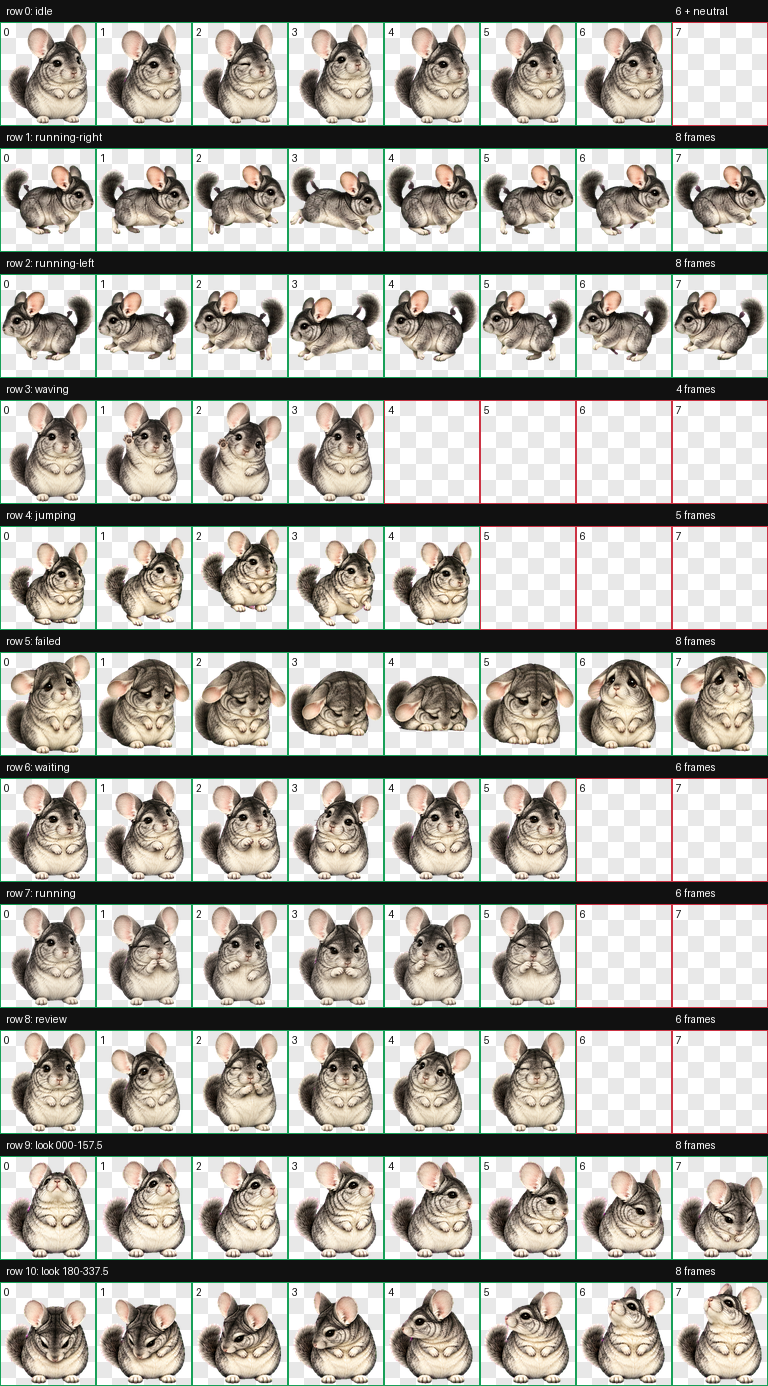
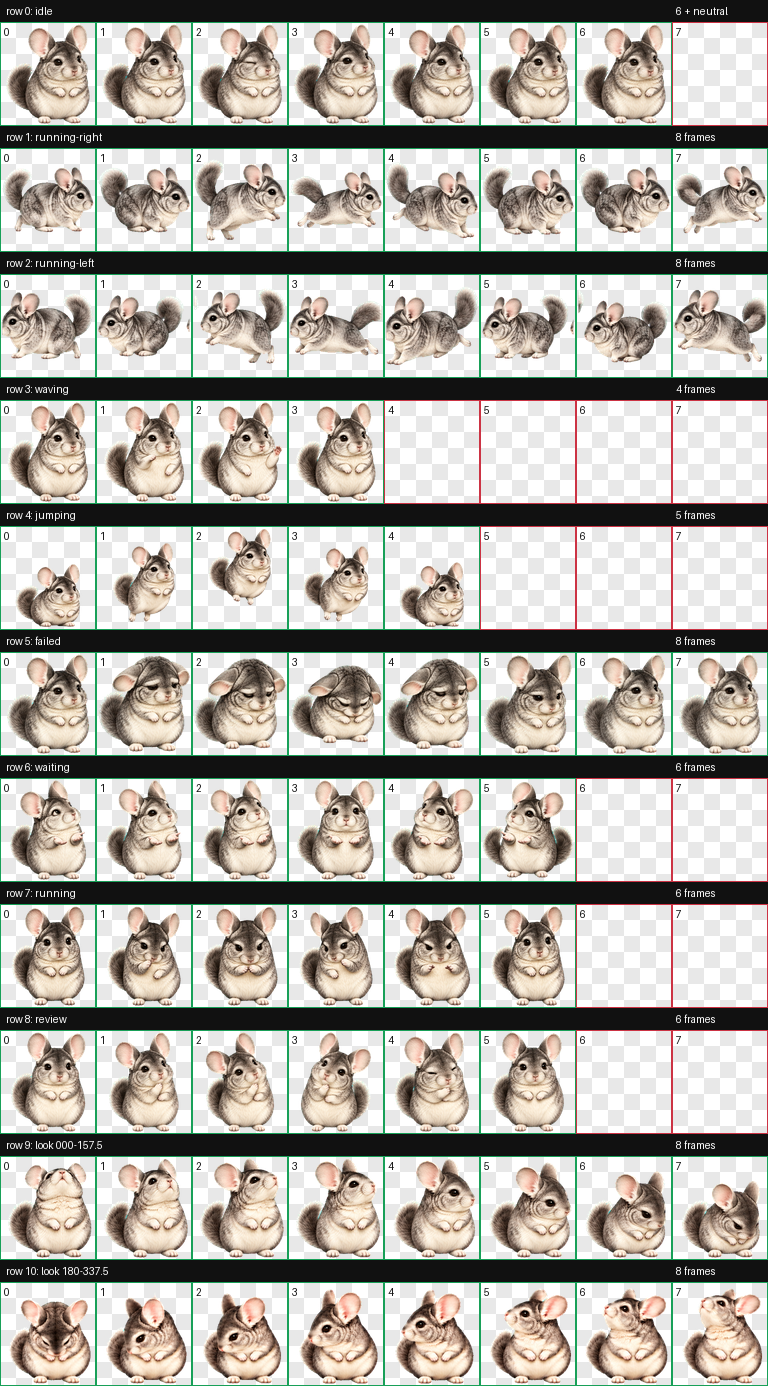
Refine chinchilla artwork and prepare 1.1.0 release

Changed region(s): [[0.0, 0.0, 1.0, 1.0]]

diff --git a/preview.html b/preview.html
@@ -1,0 +1,195 @@
+<!doctype html>
+<html lang="en">
+<head>
+  <meta charset="utf-8">
+  <meta name="viewport" content="width=device-width, initial-scale=1">
+  <title>Chinchilla · 龙猫 — animation preview</title>
+  <style>
+    :root { font-family: system-ui, -apple-system, "Segoe UI", sans-serif; color: #26382f; background: #f4f3ee; }
+    * { box-sizing: border-box; }
+    body { max-width: 880px; margin: 48px auto; padding: 0 24px 32px; }
+    header { display: flex; align-items: baseline; justify-content: space-between; gap: 16px; flex-wrap: wrap; }
+    h1 { margin: 0; font-size: clamp(26px, 5vw, 34px); letter-spacing: -.03em; }
+    h1 span { color: #647368; font-weight: 450; }
+    .version { border: 1px solid #d6ddd2; border-radius: 99px; padding: 5px 11px; font-size: 12px; white-space: nowrap; }
+    p { color: #617066; line-height: 1.65; }
+    a { color: #355c45; text-underline-offset: 3px; }
+    button, input { accent-color: #355c45; }
+    button { font: inherit; padding: 9px 13px; border: 1px solid #ccd5c8; border-radius: 9px; background: #fff; color: inherit; cursor: pointer; }
+    button:hover { border-color: #708c73; }
+    button[aria-pressed="true"] { color: #fff; background: #355c45; border-color: #355c45; }
+    button:focus-visible, input:focus-visible { outline: 3px solid #99b3a0; outline-offset: 3px; }
+    #states { display: flex; flex-wrap: wrap; gap: 7px; margin: 24px 0 18px; }
+    .viewer { padding: 20px; border: 1px solid #dce2d7; border-radius: 20px; background: #fff; }
+    .stage { height: 268px; display: grid; place-items: center; border-radius: 12px; background: #ecefe7; }
+    .dark .stage { background: #202923; }
+    .pet { width: 192px; height: 208px; background: url("./spritesheet.webp") no-repeat; background-size: 1536px 2288px; }
+    .controls { display: flex; align-items: center; gap: 9px; flex-wrap: wrap; margin-top: 17px; }
+    .scrubber { display: flex; align-items: center; gap: 9px; flex: 1 1 210px; }
+    .scrubber input { width: 100%; min-width: 100px; }
+    .background { display: flex; align-items: center; gap: 6px; white-space: nowrap; font-size: 14px; }
+    #status { display: block; min-height: 22px; margin-top: 14px; color: #526458; font-size: 14px; }
+    #lookpad { position: relative; height: 220px; margin-top: 20px; border: 1px dashed #9bac9b; border-radius: 16px; display: grid; place-items: center; padding: 20px; text-align: center; user-select: none; touch-action: none; color: #617066; }
+    #lookpad.active { background: #e6ede2; }
+    #lookpad::before { content: "+"; position: absolute; inset: 50% auto auto 50%; transform: translate(-50%, -50%); color: #6c8773; font-size: 24px; }
+    #lookpad span { align-self: end; font-size: 14px; }
+    .note { font-size: 13px; }
+    #error { color: #943b35; }
+    footer { margin-top: 22px; display: flex; gap: 18px; font-size: 14px; }
+    @media (max-width: 520px) { body { margin-top: 28px; padding-inline: 16px; } .viewer { padding: 14px; } #states button { flex: 1 0 auto; } .scrubber { flex-basis: 100%; order: 2; } }
+    @media (prefers-reduced-motion: reduce) { .note::after { content: " Playback starts paused because reduced motion is enabled."; } }
+  </style>
+</head>
+<body>
+  <header>
+    <h1>Chinchilla <span>· 龙猫</span></h1>
+    <span class="version">Release 1.1.0 · sprite format v2</span>
+  </header>
+  <p>Nine animation states and sixteen gaze directions, displayed at the pet’s native 192 × 208 px size.</p>
+  <div id="states" role="group" aria-label="Animation state"></div>
+  <section class="viewer" aria-label="Animation preview">
+    <div class="stage"><div class="pet" id="pet" role="img" aria-label="Chinchilla animation"></div></div>
+    <div class="controls">
+      <button id="pause" type="button">Pause</button>
+      <button id="previous" type="button" aria-label="Previous frame">← Frame</button>
+      <button id="next" type="button" aria-label="Next frame">Frame →</button>
+      <label class="scrubber" for="frame">Frame <input type="range" id="frame" min="0" max="5" value="0"></label>
+      <label class="background"><input type="checkbox" id="dark"> Dark background</label>
+    </div>
+    <output id="status" aria-live="off">Idle · frame 1 of 6</output>
+    <p id="error" hidden>The sprite atlas could not be loaded. Keep this HTML file next to spritesheet.webp.</p>
+  </section>
+  <div id="lookpad" aria-label="Move the pointer or drag here to preview sixteen gaze directions">
+    <span>Move the pointer or drag around the center to test gaze.<br>Leave the pad to return to the selected animation.</span>
+  </div>
+  <p class="note">Angles run clockwise: 0° up, 90° right, 180° down, 270° left. Preview timings are illustrative; Codex controls runtime animation and gaze.</p>
+  <noscript><p>Enable JavaScript to use the animation controls. The atlas is also available below.</p></noscript>
+  <footer><a href="./README.md">Installation &amp; release notes</a><a href="./spritesheet.webp">View sprite atlas</a></footer>
+  <script>
+    const rows = [
+      { name: "Idle", row: 0, times: [280, 110, 110, 140, 140, 320] },
+      { name: "Running right", row: 1, times: [120, 120, 120, 120, 120, 120, 120, 220] },
+      { name: "Running left", row: 2, times: [120, 120, 120, 120, 120, 120, 120, 220] },
+      { name: "Waving", row: 3, times: [140, 140, 140, 280] },
+      { name: "Jumping", row: 4, times: [140, 140, 140, 140, 280] },
+      { name: "Failed", row: 5, times: [140, 140, 140, 140, 140, 140, 140, 240] },
+      { name: "Waiting", row: 6, times: [150, 150, 150, 150, 150, 260] },
+      { name: "Working", row: 7, times: [120, 120, 120, 120, 120, 220] },
+      { name: "Review", row: 8, times: [150, 150, 150, 150, 150, 280] }
+    ];
+    const pet = document.querySelector("#pet");
+    const stateControls = document.querySelector("#states");
+    const frameInput = document.querySelector("#frame");
+    const statusText = document.querySelector("#status");
+    const pauseButton = document.querySelector("#pause");
+    const pad = document.querySelector("#lookpad");
+    let state = 0;
+    let frame = 0;
+    let paused = window.matchMedia("(prefers-reduced-motion: reduce)").matches;
+    let looking = false;
+    let last = performance.now();
+
+    function show(row, column) {
+      pet.style.backgroundPosition = `${-column * 192}px ${-row * 208}px`;
+    }
+
+    function draw() {
+      const selected = rows[state];
+      show(selected.row, frame);
+      frameInput.value = frame;
+      frameInput.setAttribute("aria-valuetext", `Frame ${frame + 1} of ${selected.times.length}`);
+      statusText.textContent = `${selected.name} · frame ${frame + 1} of ${selected.times.length}`;
+      pet.setAttribute("aria-label", `Chinchilla: ${selected.name}, frame ${frame + 1}`);
+    }
+
+    function returnToAnimation() {
+      looking = false;
+      pad.classList.remove("active");
+      last = performance.now();
+      draw();
+    }
+
+    function setPaused(value) {
+      paused = value;
+      pauseButton.textContent = paused ? "Play" : "Pause";
+      last = performance.now();
+    }
+
+    function choose(index) {
+      state = index;
+      frame = 0;
+      frameInput.max = rows[index].times.length - 1;
+      [...stateControls.children].forEach((button, i) => button.setAttribute("aria-pressed", String(i === index)));
+      returnToAnimation();
+    }
+
+    rows.forEach((entry, index) => {
+      const button = document.createElement("button");
+      button.type = "button";
+      button.textContent = entry.name;
+      button.addEventListener("click", () => choose(index));
+      stateControls.append(button);
+    });
+
+    pauseButton.addEventListener("click", () => {
+      setPaused(!paused);
+      returnToAnimation();
+    });
+    function step(direction) {
+      setPaused(true);
+      const count = rows[state].times.length;
+      frame = (frame + direction + count) % count;
+      returnToAnimation();
+    }
+    document.querySelector("#previous").addEventListener("click", () => step(-1));
+    document.querySelector("#next").addEventListener("click", () => step(1));
+    frameInput.addEventListener("input", () => {
+      setPaused(true);
+      frame = Number(frameInput.value);
+      returnToAnimation();
+    });
+    document.querySelector("#dark").addEventListener("change", event => document.body.classList.toggle("dark", event.target.checked));
+
+    function look(event) {
+      const bounds = pad.getBoundingClientRect();
+      const dx = event.clientX - bounds.left - bounds.width / 2;
+      const dy = event.clientY - bounds.top - bounds.height / 2;
+      if (Math.hypot(dx, dy) < 18) {
+        returnToAnimation();
+        return;
+      }
+      looking = true;
+      pad.classList.add("active");
+      const angle = (Math.atan2(dx, -dy) * 180 / Math.PI + 360) % 360;
+      const direction = Math.round(angle / 22.5) % 16;
+      show(9 + Math.floor(direction / 8), direction % 8);
+      statusText.textContent = `Gaze · ${direction * 22.5}°`;
+      pet.setAttribute("aria-label", `Chinchilla gaze at ${direction * 22.5} degrees clockwise from up`);
+    }
+    pad.addEventListener("pointermove", look);
+    pad.addEventListener("pointerdown", look);
+    pad.addEventListener("pointerleave", returnToAnimation);
+    pad.addEventListener("pointercancel", returnToAnimation);
+    pad.addEventListener("pointerup", event => {
+      if (event.pointerType !== "mouse") returnToAnimation();
+    });
+    document.addEventListener("visibilitychange", () => { last = performance.now(); });
+
+    const atlas = new Image();
+    atlas.onerror = () => { document.querySelector("#error").hidden = false; };
+    atlas.src = "./spritesheet.webp";
+
+    function tick(now) {
+      if (!paused && !looking && now - last >= rows[state].times[frame]) {
+        frame = (frame + 1) % rows[state].times.length;
+        last = now;
+        draw();
+      }
+      requestAnimationFrame(tick);
+    }
+    setPaused(paused);
+    choose(0);
+    requestAnimationFrame(tick);
+  </script>
+</body>
+</html>

diff --git a/README.md b/README.md
@@ -1,6 +1,6 @@
 # Chinchilla for Codex
 
-A custom chinchilla companion for the Codex desktop app, featuring nine animation states and 16 directional gaze poses. Built for the **v2 pet format**, with detailed fur, expressive ears, and a transparent sprite atlas.
+A custom chinchilla companion for the Codex desktop app, featuring nine animation states and 16 directional gaze poses. Release **1.1.0** refines its natural silver-gray fur, broad cheeks, expressive paws, and transparent sprite atlas. The installed pet is named **龙猫** and uses the **v2 pet format**.
 
 ![Chinchilla directional gaze preview](previews/look-directions.gif)
 
@@ -8,6 +8,7 @@ A custom chinchilla companion for the Codex desktop app, featuring nine animatio
 
 - **Nine animation states** for idle, movement, greetings, jumping, and task activity.
 - **16 gaze directions** arranged clockwise in 22.5-degree increments.
+- **Refined artwork** with natural fur, a broader face, distinct waiting/working/review gestures, and a corrected jump apex.
 - **Transparent WebP artwork** with a consistent character silhouette and grounded stance.
 - **Two-file installation** with no build step or additional dependencies.
 - **Windows installer** with package verification, automatic backups, and restoration.
@@ -18,24 +19,26 @@ Get the latest package from [Releases](https://github.com/alex1324575/codex-chin
 
 | Package | Contents | Recommended for |
 | --- | --- | --- |
-| `chinchilla-windows-1.0.0.zip` | Pet files, installer, checksums, and documentation | Guided installation on Windows |
-| `chinchilla-pet-1.0.0.zip` | Only `pet.json` and `spritesheet.webp` | Manual installation |
+| `chinchilla-windows-1.1.0.zip` | Pet files, installer, checksums, and documentation | Guided installation on Windows |
+| `chinchilla-pet-1.1.0.zip` | Only `pet.json` and `spritesheet.webp` | Manual installation |
 
-`SHA256SUMS.txt` provides SHA-256 checksums for both archives. Package release **1.0.0** uses Codex sprite format **v2**.
+`SHA256SUMS.txt` provides SHA-256 checksums for both archives. Package release **1.1.0** uses Codex sprite format **v2**; the release number and sprite format version are separate.
 
 ## Installation
 
 Requires a Codex desktop version that supports custom v2 pets. The instructions below use the default Windows configuration directory.
 
+中文快速开始：下载并完整解压 `chinchilla-windows-1.1.0.zip`，双击 **Install Chinchilla.cmd**，然后在 Codex 的宠物选择器中选择 **龙猫**。更新后如未显示，请重新打开 Codex。安装器会备份已有版本；恢复方法见下方。
+
 ### Windows installer
 
-1. Download and fully extract `chinchilla-windows-1.0.0.zip`.
+1. Download and fully extract `chinchilla-windows-1.1.0.zip`.
 2. Double-click **Install Chinchilla.cmd**. No administrator access is required for the default user directory.
-3. Select **Chinchilla** in the Codex pet picker. Reopen the app if necessary.
+3. Select **龙猫** in the Codex pet picker. Reopen the app if necessary.
 
 The launcher uses Windows PowerShell 5.1 or later with an execution-policy override for that process only; it does not change your saved execution policy. On a managed device, organizational restrictions may still apply. Manual installation is available below.
 
-The installer verifies both pet files against the bundled checksums before installation. An existing installation is moved intact into `pets\.chinchilla-backups` under the selected configuration directory. Installing the same files again makes no changes.
+The installer verifies both pet files against the bundled checksums before installation. It reads the manifest as UTF-8 and uses its display name in the pet-picker instructions. An existing installation is moved intact into `pets\.chinchilla-backups` under the selected configuration directory. Installing the same files again makes no changes.
 
 By default, the installer uses `CODEX_HOME` when set, otherwise `%USERPROFILE%\.codex`. To choose a different directory, open PowerShell in the extracted folder and run:
 
@@ -55,10 +58,10 @@ Replace the example with an actual backup name. Supply the same `-CodexHome` if 
 
 ### Manual installation
 
-1. Download and extract `chinchilla-pet-1.0.0.zip` from Releases.
+1. Download and extract `chinchilla-pet-1.1.0.zip` from Releases.
 2. Back up any existing `%USERPROFILE%\.codex\pets\chinchilla` directory before replacing its contents.
-3. Create that directory if needed, then copy `pet.json` and `spritesheet.webp` from the repository root into it.
-4. Select **Chinchilla** in the Codex pet picker. Reopen the app if the updated pet does not appear.
+3. Create that directory if needed, then copy the extracted `pet.json` and `spritesheet.webp` into it.
+4. Select **龙猫** in the Codex pet picker. Reopen the app if the updated pet does not appear.
 
 The installed directory should contain:
 
@@ -82,11 +85,11 @@ To uninstall, remove the `chinchilla` directory. To restore an earlier version, 
 | Running right | Rightward locomotion | 8 |
 | Running left | Leftward locomotion | 8 |
 | Waving | A raised-paw greeting | 4 |
-| Jumping | Anticipation, lift, and landing | 5 |
+| Jumping | Anticipation, lift, a clear apex, and landing | 5 |
 | Failed | A subdued reaction to an error | 8 |
-| Waiting | An attentive pose awaiting input or approval | 6 |
-| Working | Focused task activity | 6 |
-| Review | Attentive inspection | 6 |
+| Waiting | Expectant glances and open paws awaiting input or approval | 6 |
+| Working | Alternating raised paws, paw rubbing, and focused attention | 6 |
+| Review | Chin-resting, head tilts, and small inspection nods | 6 |
 
 Codex controls animation triggers and gaze selection. The preview GIF cycles through the gaze poses for demonstration; its playback speed does not represent the app's runtime behavior.
 
@@ -95,7 +98,7 @@ Codex controls animation triggers and gaze selection. The preview GIF cycles thr
 | Property | Value |
 | --- | --- |
 | Pet ID | `chinchilla` |
-| Display name | `Chinchilla` |
+| Display name | `龙猫` |
 | Sprite version | `2` |
 | Image format | WebP with transparency |
 | Atlas dimensions | 1536 × 2288 px |
@@ -108,16 +111,22 @@ Gaze angles increase clockwise: **0° up**, **90° right**, **180° down**, and 
 
 ## Preview
 
+Download or clone this repository, then open [preview.html](preview.html) in a browser. It reads the adjacent `spritesheet.webp` and offers all nine states, pause, frame stepping, a dark background, and pointer-controlled gaze. It works locally without a server or build step. Preview timings are illustrative; Codex controls runtime animation and gaze.
+
 <details>
 <summary>View all animation states and gaze poses</summary>
 
 ![Complete animation and gaze contact sheet](previews/contact-sheet.png)
 
+![Sixteen labeled gaze directions](previews/look-directions.png)
+
 </details>
 
 ## Asset Validation
 
-The artwork was produced with image generation and assembled into the v2 atlas using deterministic image processing. The published package passed layout, transparency, and occupied-cell validation, followed by visual review of animation continuity and character consistency. Three independent reviewers also checked the gaze directions without angle labels.
+The artwork was produced with image generation and assembled into the v2 atlas using deterministic image processing. The 1.1.0 package passed layout, transparency, and occupied-cell validation, followed by visual review of animation continuity and character consistency. All 16 gaze poses were calibrated and reviewed in sequence, with additional blind direction checks.
+
+Visual review accepted minor diagonal ambiguities: the horizontal cue at **157.5°** and pitch cues at **225°** and **315°** are subtle. Labeled review confirmed the intended directions; the blind checks did not agree on every diagonal axis. Animation timing was reviewed from ordered frames. This release does not certify playback in a specific Codex app build.
 
 The Windows installer is tested in isolated directories for fresh installation, repeat installation, upgrades, preservation of additional files, restoration, corrupted packages, invalid backup paths, and junction rejection. To run the checks from a source checkout:
 

diff --git a/CHANGELOG.md b/CHANGELOG.md
@@ -1,5 +1,19 @@
 # Changelog
 
+## 1.1.0
+
+Refined chinchilla artwork and previews. The package remains compatible with the **v2** sprite format; the pet ID is still `chinchilla`, and the installed display name is now **龙猫**.
+
+- More natural silver-gray fur, broader cheeks, a short muzzle, and consistent expressive paws.
+- Distinct waiting, working, and review gestures; a corrected, clearly raised jump apex.
+- Calibrated 16-direction gaze poses with reviewed scale, registration, and transitions.
+- A portable local `preview.html` with nine state controls, pause, frame stepping, dark background, and pointer-controlled gaze.
+- Updated state GIFs, contact sheet, directional previews, and English/Chinese installation guidance.
+- The Windows installer reads the manifest as UTF-8 and uses its display name in pet-picker instructions, so the name **龙猫** is preserved correctly.
+- Release archives `chinchilla-pet-1.1.0.zip` and `chinchilla-windows-1.1.0.zip`, with archive checksums in `SHA256SUMS.txt`.
+
+The atlas passes v2 layout, transparency, and occupied-cell validation. Visual review accepts subtle diagonal cues at 157.5°, 225°, and 315°; blind review did not agree on every diagonal axis. Timing review used ordered frames. No specific Codex app build or live app playback is certified. Installation and backup restoration follow the existing workflow.
+
 ## 1.0.0
 
 First packaged release of Chinchilla for Codex. The release version is independent of the Codex sprite format version, which remains **v2**.
